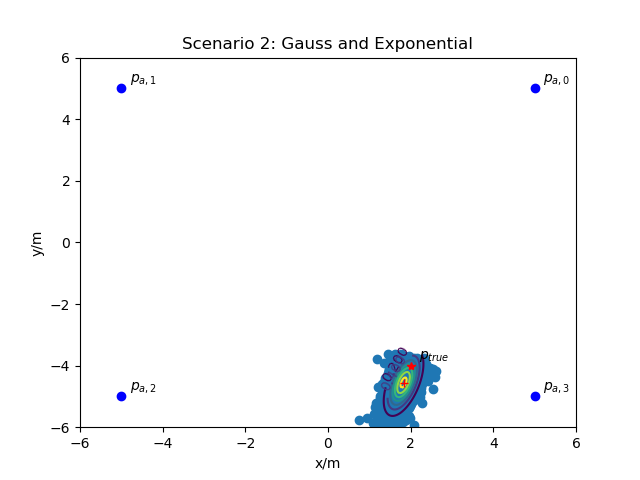
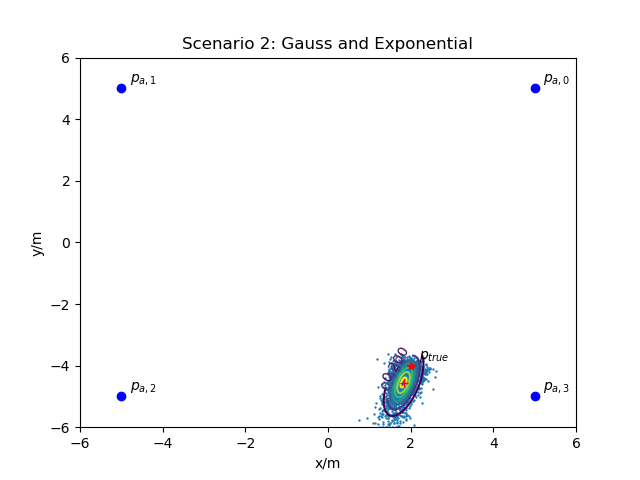
3.1 extra added

Changed region(s): [[0.5625, 0.7188, 0.6875, 0.9062]]

diff --git a/ass4/work/skeleton_HW4.py b/ass4/work/skeleton_HW4.py
@@ -17,9 +17,9 @@ from scipy.stats import multivariate_normal
 def main():
     
     # choose the scenario
-#    scenario = 1    # all anchors are Gaussian
+    scenario = 1    # all anchors are Gaussian
 #    scenario = 2    # 1 anchor is exponential, 3 are Gaussian
-    scenario = 3    # all anchors are exponential
+#    scenario = 3    # all anchors are exponential
     
     # specify position of anchors
     p_anchor = np.array([[5,5],[-5,5],[-5,-5],[5,-5]])
@@ -202,6 +202,63 @@ def position_estimation_least_squares(data, nr_anchors, p_anchor, p_true, use_ex
     plt.ylabel("P(est_errors)")
     plt.show()
 
+    # neglecting the anchor with exponentially distributed messurements
+    if(scenario == 2):
+        # TODO estimate position for  i in range(0, nr_samples)
+
+        for i in range(0, nr_samples):
+            r = data[i][1:]
+            p_start = -5.0 + 10.0 * np.random.rand(1, 2)
+            p_est[i] = least_squares_GN_without_exp(p_anchor, p_start, r, max_iter, tol)
+
+        
+        # TODO calculate error measures and create plots
+
+        for i in range(0, nr_samples):
+            diff = np.subtract(p_est[i], p_true)[0]
+            err_measures[i] = mt.sqrt(mt.pow(diff[0], 2) + mt.pow(diff[1], 2))
+
+        # printing mean error and variance
+        print("Mean: ", np.mean(err_measures), "Variance: ", np.var(err_measures))
+
+        # split x,y estimated and calculate their mean vector and covariance matrix
+        x_est = p_est[:, 0]
+        y_est  = p_est[:, 1]
+
+        x_mean = np.mean(x_est)
+        y_mean = np.mean(y_est)
+
+        mean_vector = [x_mean, y_mean]
+
+        cov_mat = np.cov(x_est, y_est)
+
+        # Scatter plots of estimated positions:
+        plt.axis([-6, 6, -6, 6])
+        for i in range(1, 4):
+            plt.plot(p_anchor[i, 0], p_anchor[i, 1], 'bo')
+            plt.text(p_anchor[i, 0] + 0.2, p_anchor[i, 1] + 0.2, r'$p_{a,' + str(i) + '}$')
+        plt.plot(p_true[0, 0], p_true[0, 1], 'r*')
+        plt.text(p_true[0, 0] + 0.2, p_true[0, 1] + 0.2, r'$p_{true}$')
+        plt.xlabel("x/m")
+        plt.ylabel("y/m")
+        plt.scatter(x_est, y_est, 0.5)
+
+        # setting up vars for plotGaussianContour
+        min_x = min(x_est)
+        max_x = max(x_est)
+        min_y = min(y_est)
+        max_y = max(y_est)
+
+        # plotting gaussian contour
+        plot_gauss_contour(mean_vector, cov_mat, min_x, max_x, min_y, max_y, "Scenario 2: Without Exponential")
+
+        # cumulative distribution function
+        Fx, x = ecdf(err_measures)
+        plt.plot(x, Fx)
+        plt.title("CDF - Scenario " + str(scenario) + " (Without Exponential)")
+        plt.xlabel("position of est_errors")
+        plt.ylabel("P(est_errors)")
+        plt.show()
 #--------------------------------------------------------------------------------
 def position_estimation_numerical_ml(data,nr_anchors,p_anchor, lambdas, p_true):
     """ estimate the position by using a numerical maximum likelihood estimator
@@ -262,7 +319,39 @@ def least_squares_GN(p_anchor, p_start, r, max_iter, tol):
 
     return p_temp;
 
-    
+def least_squares_GN_without_exp(p_anchor, p_start, r, max_iter, tol):
+    """ apply Gauss Newton to find the least squares solution
+    Input:
+        p_anchor... position of anchors, nr_anchors x 2
+        p_start... initial position, 2x1
+        r... distance_estimate, nr_anchors x 1
+        max_iter... maximum number of iterations, scalar
+        tol... tolerance value to terminate, scalar"""
+        # helper vars:    
+    p_temp = p_start
+    p_old = 0
+    brk_cond = 0
+    diff = 0
+
+
+    for i in range(max_iter):
+        # creating jacobi matrix
+        j_mat = calc_jacobi_without_exp(p_temp, p_anchor)
+
+        #updating p_old and calc new temp
+        p_old = p_temp
+        anchor_dists = calc_anchor_dist_without_exp(p_temp[0], p_anchor)
+        p_temp = np.subtract(p_temp, np.dot(np.dot(np.linalg.inv(np.dot(j_mat.T, j_mat)), j_mat.T), np.subtract(r, anchor_dists)))
+        
+        # calc diff and break condition
+        diff = np.subtract(p_temp, p_old)[0]
+        brk_cond = mt.sqrt(mt.pow(diff[0], 2) + mt.pow(diff[1], 2))
+
+        # if brk_cond is smaller than tol break and return p_temp
+        if (brk_cond < tol):
+            break;
+
+    return p_temp;
 #--------------------------------------------------------------------------------
 #--------------------------------------------------------------------------------
 # Helper Functions
@@ -324,11 +413,29 @@ def calc_jacobi(p_start, p_anchor):
     return j_mat
 
 #--------------------------------------------------------------------------------
+
+def calc_jacobi_without_exp(p_start, p_anchor):
+    j_mat = np.zeros((3, 2))
+
+    for i in range(0, 3):
+        j_mat[i][0] = ((p_anchor[i+1][0] - p_start[0][0]) / calc_euclid_dist(p_start[0], p_anchor[i+1]))
+        j_mat[i][1] = ((p_anchor[i+1][1] - p_start[0][1]) / calc_euclid_dist(p_start[0], p_anchor[i+1]))
+
+    return j_mat    
+
+#--------------------------------------------------------------------------------
 def calc_anchor_dist(p_true, p_anchor):
     dists = []
     for i in range(4):
         dists.append(calc_euclid_dist(p_true, p_anchor[i]))
     return dists
+
+#--------------------------------------------------------------------------------
+def calc_anchor_dist_without_exp(p_true, p_anchor):
+    dists = []
+    for i in range(1, 4):
+        dists.append(calc_euclid_dist(p_true, p_anchor[i]))
+    return dists    
 
 #--------------------------------------------------------------------------------
 #--------------------------------------------------------------------------------
